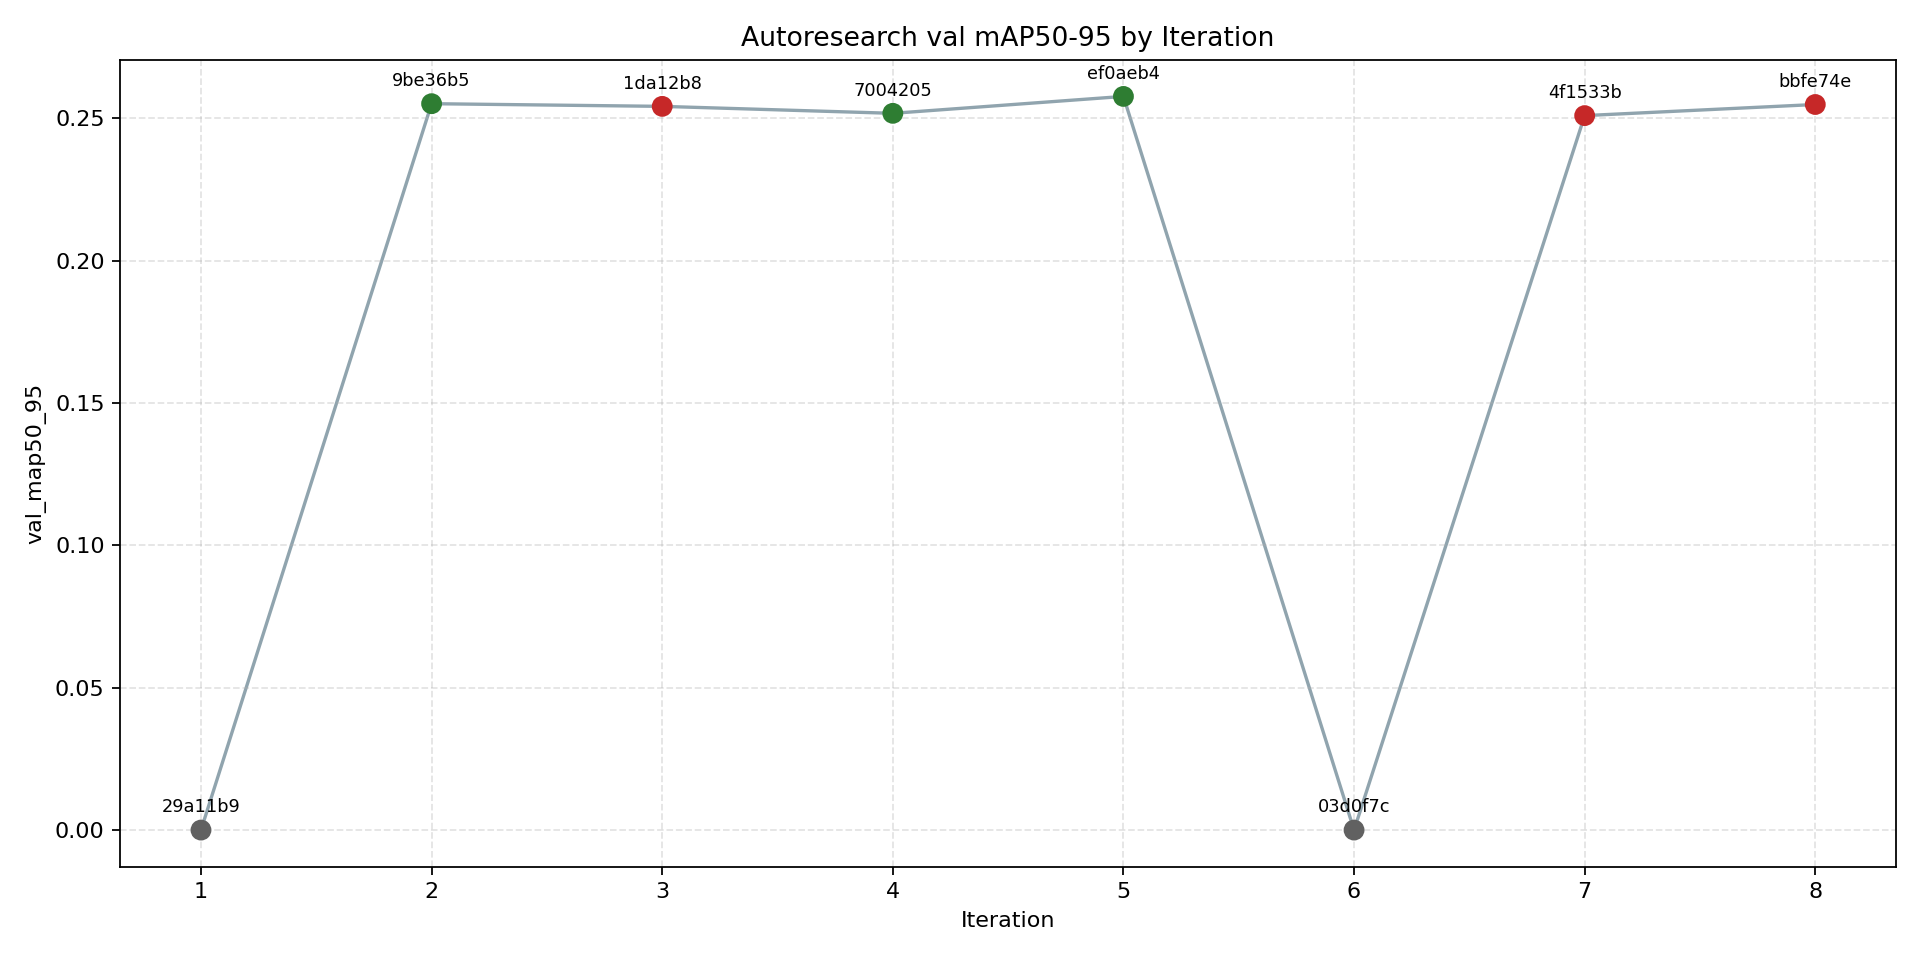
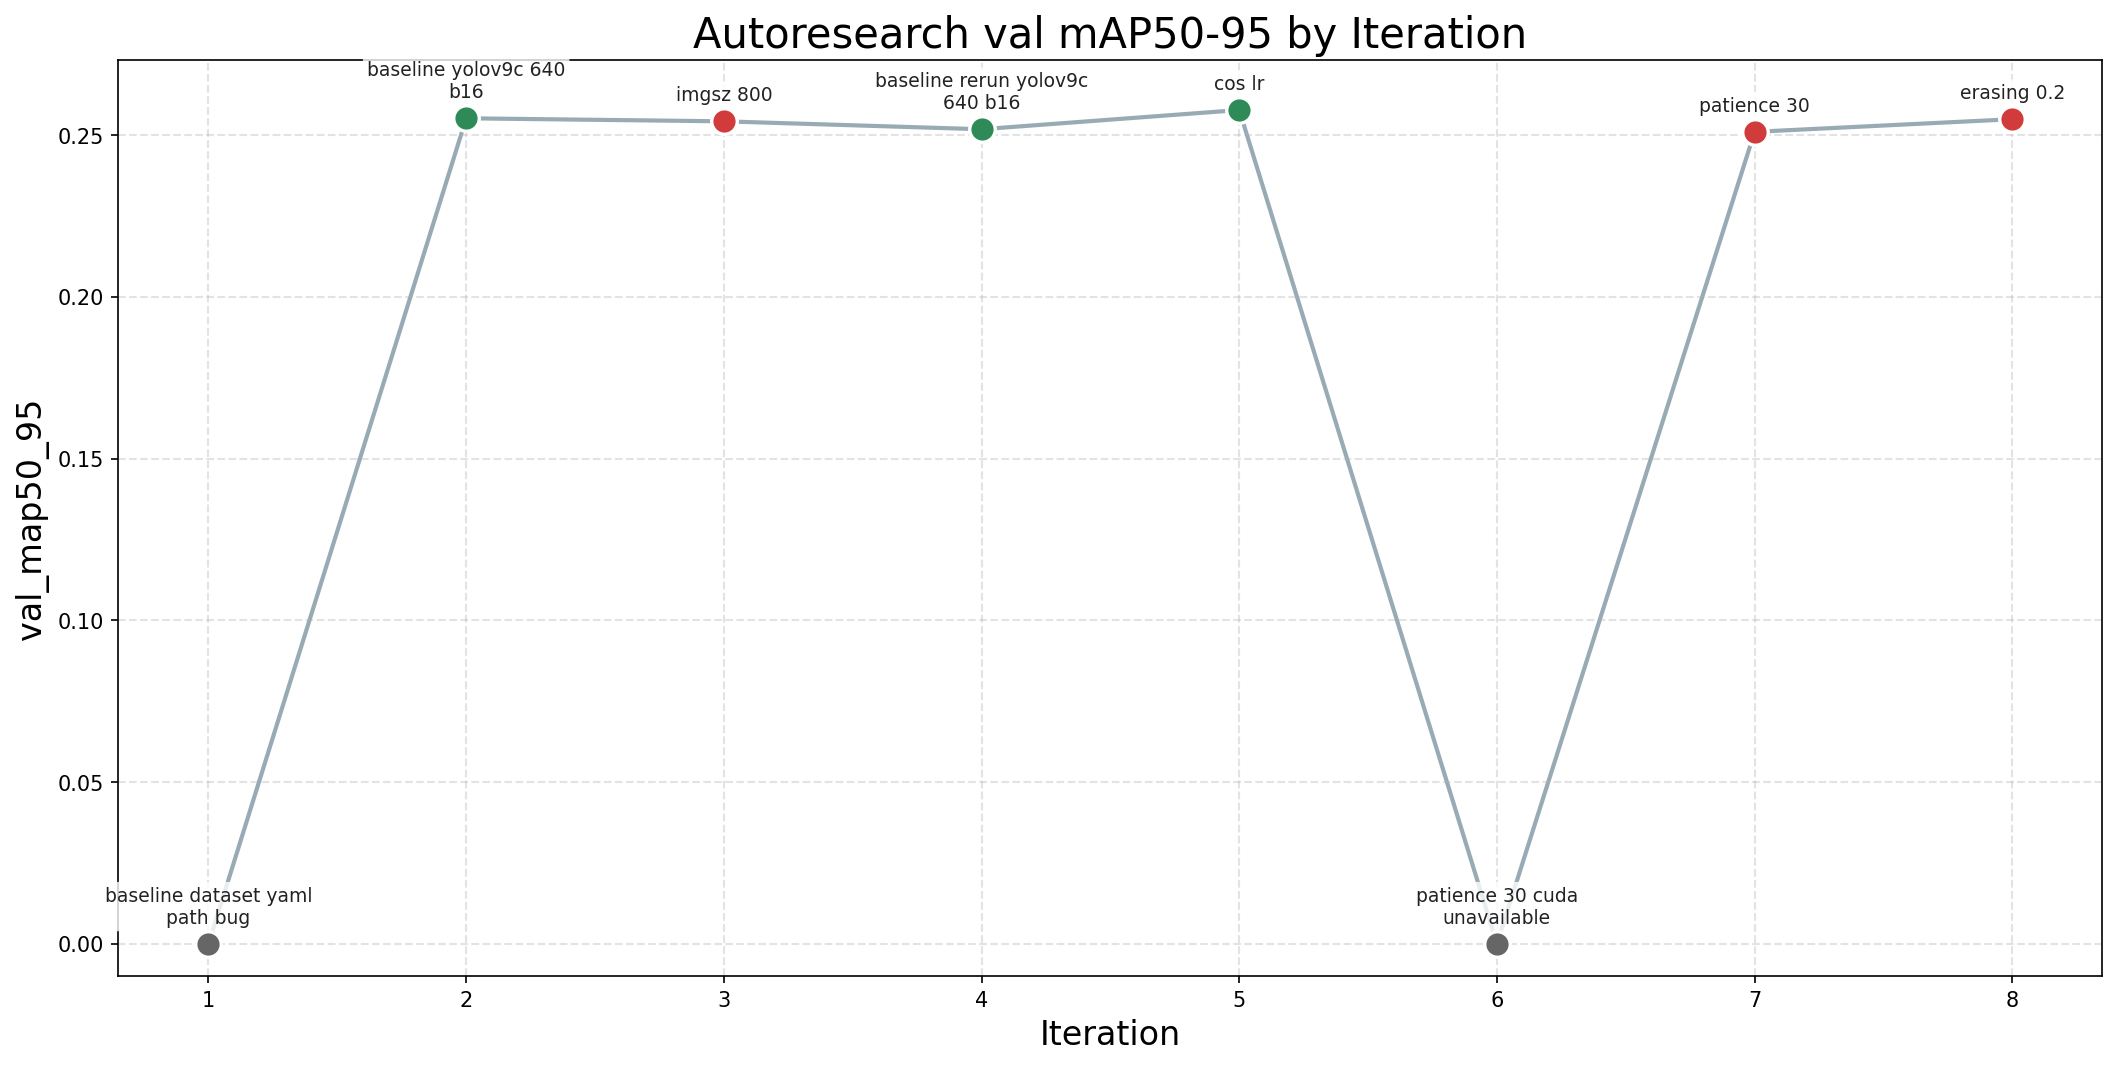
fix: label progress plot from experiment descriptions

diff --git a/plot_progress.py b/plot_progress.py
@@ -1,0 +1,114 @@
+from __future__ import annotations
+
+import textwrap
+from pathlib import Path
+
+import matplotlib.pyplot as plt
+import pandas as pd
+
+
+RESULTS_PATH = Path("results.tsv")
+OUTPUT_PATH = Path("progress.png")
+EXPECTED_COLUMNS = [
+    "commit",
+    "val_map50",
+    "val_map50_95",
+    "precision",
+    "recall",
+    "memory_gb",
+    "status",
+    "description",
+]
+
+
+def human_label(row: pd.Series) -> str:
+    description = str(row.get("description", "") or "").strip()
+    if not description:
+        description = f"{row['status']} run"
+
+    description = description.replace("_", " ")
+    return "\n".join(textwrap.wrap(description, width=22)) or description
+
+
+def main() -> None:
+    if not RESULTS_PATH.exists():
+        raise FileNotFoundError(f"{RESULTS_PATH} not found")
+
+    df = pd.read_csv(RESULTS_PATH, sep="\t")
+    missing = [column for column in EXPECTED_COLUMNS if column not in df.columns]
+    if missing:
+        raise ValueError(f"results.tsv missing columns: {missing}")
+
+    if df.empty:
+        print("results.tsv only contains the header so far.")
+        return
+
+    df["status"] = df["status"].fillna("").astype(str).str.strip().str.lower()
+    df["description"] = df["description"].fillna("").astype(str).str.strip()
+    df["val_map50_95"] = pd.to_numeric(df["val_map50_95"], errors="coerce").fillna(0.0)
+    df["iteration"] = range(1, len(df) + 1)
+
+    status_colors = {
+        "keep": "#2e8b57",
+        "discard": "#d23b3b",
+        "crash": "#666666",
+    }
+
+    fig, ax = plt.subplots(figsize=(14, 7), constrained_layout=True)
+    ax.plot(df["iteration"], df["val_map50_95"], color="#8da2ad", linewidth=2.0, alpha=0.9, zorder=1)
+
+    for status, group in df.groupby("status", dropna=False):
+        color = status_colors.get(status, "#4b6a88")
+        ax.scatter(
+            group["iteration"],
+            group["val_map50_95"],
+            c=color,
+            s=150,
+            edgecolors="white",
+            linewidths=1.6,
+            zorder=3,
+        )
+
+    for _, row in df.iterrows():
+        offset_y = 8 if row["status"] != "crash" else 6
+        va = "bottom"
+        if row["status"] == "crash" and row["val_map50_95"] <= 0.01:
+            offset_y = 8
+            va = "bottom"
+
+        ax.annotate(
+            human_label(row),
+            (row["iteration"], row["val_map50_95"]),
+            textcoords="offset points",
+            xytext=(0, offset_y),
+            ha="center",
+            va=va,
+            fontsize=9,
+            color="#222222",
+            bbox={
+                "boxstyle": "round,pad=0.22",
+                "facecolor": "white",
+                "edgecolor": "none",
+                "alpha": 0.8,
+            },
+            zorder=4,
+        )
+
+    ax.set_title("Autoresearch val mAP50-95 by Iteration", fontsize=20)
+    ax.set_xlabel("Iteration", fontsize=16)
+    ax.set_ylabel("val_map50_95", fontsize=16)
+    ax.grid(True, linestyle="--", linewidth=1, alpha=0.35)
+    ax.set_xticks(df["iteration"])
+
+    max_value = float(df["val_map50_95"].max())
+    margin = max(0.01, max_value * 0.06)
+    ax.set_ylim(-0.01, max_value + margin)
+
+    OUTPUT_PATH.parent.mkdir(parents=True, exist_ok=True)
+    fig.savefig(OUTPUT_PATH, dpi=150, bbox_inches="tight")
+    plt.close(fig)
+    print(f"Saved plot to {OUTPUT_PATH}")
+
+
+if __name__ == "__main__":
+    main()

diff --git a/README.md b/README.md
@@ -22,6 +22,7 @@ The primary optimization target is `val_map50_95`. Higher is better.
 train.py                editable experiment surface
 prepare.py              dataset constants, verification, evaluation
 program.md              agent instructions and experiment protocol
+plot_progress.py        regenerate progress.png from results.tsv
 pyproject.toml          Python dependencies
 Dataset-YOLO/           canonical local split (gitignored)
   data.yaml             dataset config
@@ -36,7 +37,7 @@ Datasets, raw logs, and generated training outputs under `runs/` are local-only 
 - `train.py` is the only file the autoresearch agent should change during normal experimentation.
 - `prepare.py` is read-only unless a confirmed runtime bug blocks execution.
 - `results.tsv`, `baseline.log`, and `followup.log` are local artifacts and must stay uncommitted.
-- `progress.png` must be regenerated from the current local `results.tsv` whenever a new result is recorded, and should be committed when publishing branch progress.
+- `progress.png` must be regenerated from the current local `results.tsv` with `uv run python plot_progress.py` whenever a new result is recorded, and should be committed when publishing branch progress.
 
 ## Requirements
 
@@ -129,4 +130,4 @@ That makes the codebase small enough for fast iteration while keeping evaluation
 
 ## Analysis
 
-Use `analysis.ipynb` to inspect `results.tsv` after several experiments. The notebook is aligned with the current YOLO schema and tracks `val_map50_95` as the primary frontier metric, with higher values treated as better. It also regenerates `progress.png`, which is embedded at the top of this README. In the default workflow, both files are committed so progress survives pod restarts or eviction.
+Use `analysis.ipynb` to inspect `results.tsv` after several experiments. For the canonical repo thumbnail, regenerate `progress.png` with `uv run python plot_progress.py`; that script labels points from the experiment description rather than the commit hash. The notebook is still useful for ad hoc inspection, and both `results.tsv` and `progress.png` are committed in the default workflow so progress survives pod restarts or eviction.

diff --git a/program.md b/program.md
@@ -12,6 +12,7 @@ Before starting a run:
    - `program.md`
    - `prepare.py`
    - `train.py`
+   - `plot_progress.py`
 4. Run `uv run prepare.py` to verify the dataset.
 5. Ensure `results.tsv` exists in the repository root with this exact header:
 
@@ -72,7 +73,7 @@ Parse those values from the log or terminal output. Do not rely on Unix-only too
 ## Logging Results
 
 After every experiment, append exactly one row to `results.tsv`.
-After every new row, regenerate `progress.png` from the current `results.tsv`.
+After every new row, regenerate `progress.png` by running `uv run python plot_progress.py`.
 
 Columns:
 
@@ -96,7 +97,9 @@ Rules:
 - Use the short Git commit hash for `commit`.
 - Convert `peak_vram_mb` to `memory_gb`.
 - Use `0.000000` and `0.0` for crashed runs.
-- Keep descriptions short and specific.
+- Keep descriptions short, specific, and human-readable.
+- The `description` field must describe the actual hypothesis or config change, such as `cos lr`, `lr0 0.0008`, `imgsz 800`, or `erasing 0.2`.
+- Never use a commit hash as the description.
 - Never commit raw logs.
 - Commit and push `results.tsv` and `progress.png` after every completed iteration so progress survives pod loss.
 
